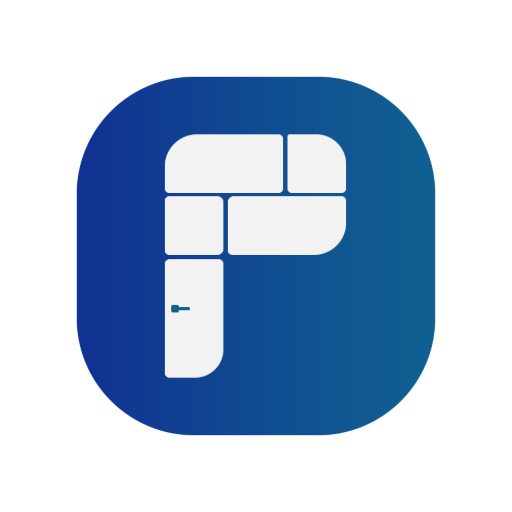
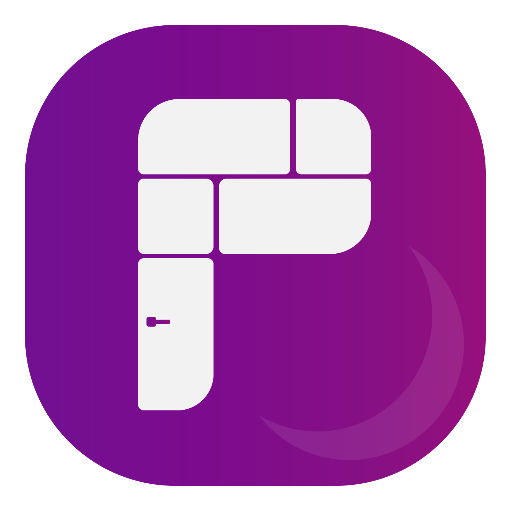
ramadan update

diff --git a/WebAppPage/style.css b/WebAppPage/style.css
@@ -3,12 +3,12 @@
    ========================================= */
 :root {
     /* --- الوضع النهاري (الافتراضي) --- */
-    --primary-color: linear-gradient(90deg, #103191, #106091);       /* أزرق مدخل الرسمي */
-    --bg-color: #f8f9fa;            /* خلفية الصفحة */
-    --primary-text: #1a60bb;          /* خلفية الخط الرسمي */
+    --primary-color: linear-gradient(90deg, #731091, #91107c);       /* أزرق مدخل الرسمي */
+    --bg-color: #f9f8fa;            /* خلفية الصفحة */
+    --primary-text: #830ea7;          /* خلفية الخط الرسمي */
     --surface-color: #ffffff;       /* لون الكروت والقوائم */
-    --text-dark: #1f2937;           /* النصوص الرئيسية */
-    --text-light: #6b7280;          /* النصوص الفرعية */
+    --text-dark: #321f37;           /* النصوص الرئيسية */
+    --text-light: #7a6b80;          /* النصوص الفرعية */
     --border-color: #e5e7eb;        /* لون الحدود والفواصل */
     --header-bg: rgba(255, 255, 255, 0.85); /* خلفية الهيدر الشفافة */
     --shadow-color: rgba(0, 0, 0, 0.05);    /* لون الظل */
@@ -20,12 +20,12 @@
 
 /* --- الوضع الليلي (Dark Mode) --- */
 [data-theme="dark"] {
-    --primary-color: linear-gradient(90deg, #103191, #106091);  /* أزرق سماوي فاتح (عشان يوضح في الظلام) */
+    --primary-color: linear-gradient(90deg, #731091, #91107c);  /* أزرق سماوي فاتح (عشان يوضح في الظلام) */
     --bg-color: #121212;            /* لون فحمي غامق (أفخم من الأسود الكامل) */
-    --primary-text: #5eaae9;          /* خلفية الخط الرسمي */
+    --primary-text: #b52fcf;          /* خلفية الخط الرسمي */
     --surface-color: #1e1e1e;       /* رمادي غامق للكروت */
     --text-dark: #e4e6eb;           /* أبيض مريح للعين (أوف وايت) */
-    --text-light: #9ca3af;          /* رمادي فاتح */
+    --text-light: #ac9caf;          /* رمادي فاتح */
     --border-color: #2d2d2d;        /* حدود غامقة */
     --header-bg: rgba(30, 30, 30, 0.85); /* هيدر غامق شفاف */
     --shadow-color: rgba(0, 0, 0, 0.3);  /* ظل أثقل للوضع الليلي */
@@ -225,7 +225,7 @@ body {
 /* هذا عشان نضبط لون الهوفر في الدارك مود */
 [data-theme="dark"] .sidebar-menu a:hover,
 [data-theme="dark"] .sidebar-menu a.active {
-    background-color: rgba(96, 165, 250, 0.15); /* أزرق شفاف خفيف */
+    background-color: rgba(224, 96, 250, 0.15); /* أزرق شفاف خفيف */
 }
 
 .sidebar-menu i { font-size: 18px; }
@@ -244,13 +244,13 @@ body {
     color: var(--primary-text);
     margin-bottom: 8px;
     font-weight: 800;
-    text-shadow: 0 0 15px rgba(0, 82, 204, 0.2); /* خففنا الظل شوي */
+    text-shadow: 0 0 15px rgba(170, 0, 204, 0.2); /* خففنا الظل شوي */
     animation: glowPulse 3s infinite alternate;
 }
 
 @keyframes glowPulse {
-    0% { text-shadow: 0 0 10px rgba(0, 82, 204, 0.1); }
-    100% { text-shadow: 0 0 20px rgba(0, 82, 204, 0.4); }
+    0% { text-shadow: 0 0 10px rgba(156, 0, 204, 0.1); }
+    100% { text-shadow: 0 0 20px rgba(204, 0, 170, 0.4); }
 }
 
 .sub-text {
@@ -326,23 +326,23 @@ body {
 
 /* التدرجات تبقى كما هي لأنها جميلة في الوضعين */
 .purple-gradient {
-    background: linear-gradient(135deg, #836ee0 0%, #4d1b9e 100%);
+    background: linear-gradient(135deg, #c07cf8 0%, #9c15da 100%);
     box-shadow: 0 8px 15px rgba(161, 140, 209, 0.25);
 }
 
 .orange-gradient {
-    background: linear-gradient(135deg, #f8db7c 0%, #da8b15 100%);
-    box-shadow: 0 8px 15px rgba(250, 155, 129, 0.25);
+    background: linear-gradient(135deg, #836ee0 0%, #4d1b9e 100%);
+    box-shadow: 0 8px 15px rgba(240, 129, 250, 0.25);
 }
 
 .green-gradient {
-    background: linear-gradient(135deg, #51c7b3 0%, #0d7c52 100%);
-    box-shadow: 0 8px 15px rgba(132, 250, 176, 0.25);
+    background: linear-gradient(135deg, #8851c7 0%, #3d0d7c 100%);
+    box-shadow: 0 8px 15px rgba(207, 132, 250, 0.25);
 }
 
 .blue-gradient1 {
-    background: linear-gradient(135deg, #65b7da 0%, #1537b3 100%);
-    box-shadow: 0 8px 15px rgba(0, 198, 251, 0.25);
+    background: linear-gradient(135deg, #d065da 0%, #9315b3 100%);
+    box-shadow: 0 8px 15px rgba(251, 0, 209, 0.25);
 }
 
 /* =========================================
@@ -520,17 +520,17 @@ body {
 
 /* الستايل الأساسي (أزرق) */
 .app-btn.primary {
-    background-color: rgba(0, 82, 204, 0.08);
+    background-color: rgba(139, 0, 204, 0.08);
     color: var(--primary-text);
 }
 
 .app-btn.primary:active {
-    background-color: rgba(0, 82, 204, 0.2);
+    background-color: rgba(180, 0, 204, 0.2);
 }
 
 /* تعديل للدارك مود: نخلي الخلفية أوضح شوي */
 [data-theme="dark"] .app-btn.primary {
-    background-color: rgba(96, 165, 250, 0.15);
+    background-color: rgba(224, 96, 250, 0.15);
 }
 
 /* الستايل الثانوي (رمادي) */
@@ -609,7 +609,7 @@ body {
 
 /* حاوية العداد التنازلي */
 #calender-events .event-timer {
-    background: #f0f7ff; /* أزرق ثلجي فاتح للوضع النهاري */
+    background: #fef0ff; /* أزرق ثلجي فاتح للوضع النهاري */
     border-radius: 16px;
     padding: 12px 10px;
     display: flex !important;
@@ -624,8 +624,8 @@ body {
 
 /* تعديل العداد للوضع الليلي */
 [data-theme="dark"] #calender-events .event-timer {
-    background: rgba(96, 165, 250, 0.1); /* أزرق غامق شفاف */
-    border-color: rgba(96, 165, 250, 0.2);
+    background: rgba(237, 96, 250, 0.1); /* أزرق غامق شفاف */
+    border-color: rgba(250, 96, 242, 0.2);
 }
 
 #calender-events .event-timer > div {
@@ -648,7 +648,7 @@ body {
 /* تنسيق الكلمات (يوم/ساعة) */
 #calender-events .event-timer span[style*="font-size: 11px"] {
     font-size: 10px !important;
-    color: #7b8ab5 !important;
+    color: #a57bb5 !important;
     font-weight: 600;
 }
 
@@ -659,7 +659,7 @@ body {
 
 /* الفواصل (:) */
 #calender-events .event-timer > span[style*="color: #ddd"] {
-    color: #cbd5e1 !important;
+    color: #dfcbe1 !important;
     font-size: 20px !important;
     margin-top: -12px !important;
     font-weight: 300;
@@ -749,7 +749,7 @@ body {
     position: absolute;
     top: 10px;
     right: 10px;
-    background: rgba(0, 82, 204, 0.9);
+    background: rgba(187, 5, 126, 0.9);
     backdrop-filter: blur(4px);
     color: white;
     padding: 4px 10px;
@@ -1118,7 +1118,7 @@ input:checked + .slider:before {
     width: 100%;
     height: 100%;
     border: 3px solid transparent;
-    border-top-color: var(--primary-color); /* لون التحميل أزرق */
+    border-top-color: var(--primary-text); /* لون التحميل أزرق */
     border-radius: 50%;
     animation: spinRing 1s linear infinite;
     z-index: 1;
@@ -1191,8 +1191,8 @@ input:checked + .slider:before {
 .popup-icon1 {
     width: 60px;
     height: 60px;
-    background: #dee5fa; /* خلفية زرقاء فاتحة */
-    color: #1309cf; /* لون الأيقونة */
+    background: #f8defa; /* خلفية زرقاء فاتحة */
+    color: #cf09ae; /* لون الأيقونة */
     border-radius: 50%;
     display: flex;
     align-items: center;
@@ -1223,7 +1223,7 @@ input:checked + .slider:before {
 }
 
 .popup-buttons1 .btn-primary {
-    background: linear-gradient(90deg, #103191, #106091);
+    background: linear-gradient(90deg, #731091, #91107c);
     color: white;
     border: none;
     padding: 10px 20px;

diff --git a/WebAppPage/libstyle.css b/WebAppPage/libstyle.css
@@ -104,7 +104,7 @@
 
 [data-theme="dark"] .sidebar-menu a:hover, 
 [data-theme="dark"] .sidebar-menu a.active {
-    background-color: rgba(96, 165, 250, 0.15);
+    background-color: rgba(219, 96, 250, 0.15);
 }
 
 .sidebar-menu i { font-size: 18px; }
@@ -153,7 +153,7 @@
 .tab-item.active {
     background: var(--primary-color);
     color: white; /* النص دائماً أبيض في النشط */
-    box-shadow: 0 4px 10px rgba(0, 82, 204, 0.2);
+    box-shadow: 0 4px 10px rgba(187, 0, 204, 0.2);
 }
 
 /* =========================================
@@ -210,7 +210,7 @@
     width: 45px;
     height: 45px;
     min-width: 45px;
-    background-color: #f0f7ff; /* أزرق فاتح */
+    background-color: #fdf0ff; /* أزرق فاتح */
     border-radius: 12px;
     display: flex;
     align-items: center;
@@ -220,8 +220,8 @@
 }
 
 [data-theme="dark"] .doc-icon {
-    background-color: rgba(96, 165, 250, 0.15); /* شفاف في الدارك */
-    color: #60a5fa;
+    background-color: rgba(206, 96, 250, 0.15); /* شفاف في الدارك */
+    color: #ed60fa;
 }
 
 /* النصوص داخل الكرت */
@@ -401,7 +401,7 @@
 .team-info h4 { margin: 0 0 5px; font-size: 15px; font-weight: 800; color: var(--text-dark); }
 
 .major-badge { 
-    background: #eef4ff; 
+    background: #fbeeff; 
     color: var(--primary-color); 
     padding: 4px 10px; 
     border-radius: 8px; 
@@ -412,8 +412,8 @@
 }
 
 [data-theme="dark"] .major-badge {
-    background: rgba(96, 165, 250, 0.15);
-    color: #60a5fa;
+    background: rgba(224, 96, 250, 0.15);
+    color: #db60fa;
 }
 
 .team-info p { 
@@ -471,7 +471,7 @@
 
 /* ألوان الكروت (Gradient) تبقى كما هي لأنها جميلة في الوضعين */
 .bb-card { background: linear-gradient(135deg, #6c3483, #8e44ad); }
-.edu-card { background: linear-gradient(135deg, #2980b9, #3498db); }
+.edu-card { background: linear-gradient(135deg, #9029b9, #db34bf); }
 .jic-card { background: linear-gradient(135deg, #16a085, #1abc9c); }
 .jti-card { background: linear-gradient(135deg, #d35400, #e67e22); }
 .rc-card { background: linear-gradient(135deg, #2c3e50, #34495e); }

diff --git a/WebAppPage/index.html b/WebAppPage/index.html
@@ -118,8 +118,8 @@
 
         
         <section class="welcome-section">
-            <h2 class="glow-text">مبـادرة مدخـل الطلابيـة</h2>
-            <p class="sub-text"> شاركت تطبيق مدخل مع زملائـك ؟👀</p>
+            <h2 class="glow-text">تطبيـق منصـة مدحـل</h2>
+            <p class="sub-text"> نبارك لكم قدوم الشهر الكريم 🌙</p>
         </section>
 
         <section class="shortcuts-section">
@@ -184,13 +184,13 @@
 <div id="custom-popup1" class="popup-overlay1">
     <div class="popup-box1">
         <div class="popup-icon1">
-            <i class="fi fi-rr-bell-ring"></i> </div>
-        <h3 class="popup-title1">اعلان هــام</h3>
+            <i class="fi fi-rr-star-and-crescent"></i> </div>
+        <h3 class="popup-title1">نبارك لكم الشهر الكريم</h3>
         <p class="popup-text1">
-          عادت الادوات للعمل من جديد
+         الله يتقبل منا ومنكم صالح الاعمال يارب 📿
         </p>
         <div class="popup-buttons1">
-            <a href="Tools.html" class="btn-primary" onclick="closePopup()">زيارة</a>
+            <a href="index.html" class="btn-primary" onclick="closePopup()">متابعة</a>
             
             <button class="btn-secondary" onclick="closePopup()">الغاء</button>
         </div>

diff --git a/WebAppPage/script.js b/WebAppPage/script.js
@@ -41,7 +41,7 @@ window.addEventListener('load', () => {
 
 
     // 2. توليد خلفية الإيموجي
-    const emojis = ["📚", "✏", "🎓", "💡", "📅", "⚙", "📐", "🔬"];
+    const emojis = ["🌜", "📿", "🎓", "💡", "📅", "🌒", "🌙", "🌙"];
     const container = document.getElementById('emoji-background');
     if (container) { // تأكدنا ان العنصر موجود عشان ما يطلع خطأ
         const emojiCount = 15;
@@ -348,7 +348,7 @@ if (toggleSwitch) {
 
 document.addEventListener("DOMContentLoaded", () => {
     // نحدد اسم مفتاح الجلسة (عشان المتصفح يتذكر)
-    const POPUP_KEY = 'portal_popup_v1';
+    const POPUP_KEY = 'portal_popup_v2';
     
     // إذا ما قد شافه في هذي الجلسة
     if (!localStorage.getItem(POPUP_KEY)) {
@@ -360,7 +360,7 @@ document.addEventListener("DOMContentLoaded", () => {
 
 function closePopup() {
     const popup = document.getElementById('custom-popup1');
-    const POPUP_KEY = 'portal_popup_v1';
+    const POPUP_KEY = 'portal_popup_v2';
     
     // إخفاء النافذة
     popup.classList.remove('active');

diff --git a/WebAppPage/news.html b/WebAppPage/news.html
@@ -90,7 +90,7 @@
 
         <div id="offersGrid" class="news-grid fade-in" style="display: none;">
             <div class="offer-card">
-                <div class="offer-badge">قريب مره</div>
+                <div class="offer-badge">خصم 20%</div>
                 <img src="https://media.giphy.com/media/v1.Y2lkPTc5MGI3NjExd2tieHRqNTBzd2V0N254aDZ2dzRpeGE3eTkyaXRmZXdyMDZ4dHI2MiZlcD12MV9naWZzX3NlYXJjaCZjdD1n/KCpyc9SfBJcwhAMrFz/giphy.gif" alt="عرض">
                 <div class="offer-content">
                     <h3>قريب بيكون فيه عروض هنا</h3>
@@ -98,6 +98,7 @@
                     <a href="#" class="offer-btn">اصبروا علينا 👀</a>
                 </div>
             </div>
+
             <div class="loading-spinner" id="offers-loader" style="display:none">جاري تحميل العروض...</div>
         </div>
     </main>
@@ -128,7 +129,4 @@
     <script src="script.js"></script>
     <script src="news-script.js"></script>
 </body>
-
 </html>
-
-

diff --git a/WebAppPage/news-style.css b/WebAppPage/news-style.css
@@ -112,7 +112,7 @@ body, input, h1, h2, h3, p, span, div {
 /* تعديل بادج التصنيف في الدارك مود */
 [data-theme="dark"] .blog-category-badge {
     background: rgba(30, 30, 30, 0.9);
-    color: #60a5fa;
+    color: #d660fa;
     border: 1px solid rgba(255,255,255,0.1);
 }
 
@@ -211,7 +211,7 @@ body, input, h1, h2, h3, p, span, div {
 
 [data-theme="dark"] .article-badge {
     background: rgba(96, 165, 250, 0.15);
-    color: #60a5fa;
+    color: #e060fa;
 }
 
 /* تنسيق جسم المقال (Typography) */
@@ -405,7 +405,7 @@ body, input, h1, h2, h3, p, span, div {
     position: absolute;
     top: 10px;
     right: 10px;
-    background: #ff4757; /* هذا لون تنبيه ثابت يفضل بقاؤه */
+    background: linear-gradient(90deg, #731091, #91107c); /* هذا لون تنبيه ثابت يفضل بقاؤه */
     color: white;
     padding: 5px 10px;
     border-radius: 20px;

diff --git a/WebAppPage/misstyle.css b/WebAppPage/misstyle.css
@@ -58,7 +58,7 @@
 }
 
 .filter-btn.active {
-    background: linear-gradient(90deg, #103191, #106091);
+    background: linear-gradient(90deg, #731091, #91107c);
     color: white;
 }
 
@@ -174,7 +174,7 @@
     left: 20px;
     width: 55px;
     height: 55px;
-    background: linear-gradient(90deg, #103191, #106091);
+    background: linear-gradient(90deg, #731091, #91107c);
     color: white;
     border-radius: 50%;
     border: none;
@@ -412,7 +412,7 @@
 
 /* زر التليجرام */
 .popup-content2 .app-btn2 {
-    background: linear-gradient(90deg, #103191, #106091); /* أزرق */
+    background: linear-gradient(90deg, #731091, #91107c); /* أزرق */
     color: #fff !important; /* النص دايماً أبيض */
     border-radius: 12px;
     padding: 12px;
